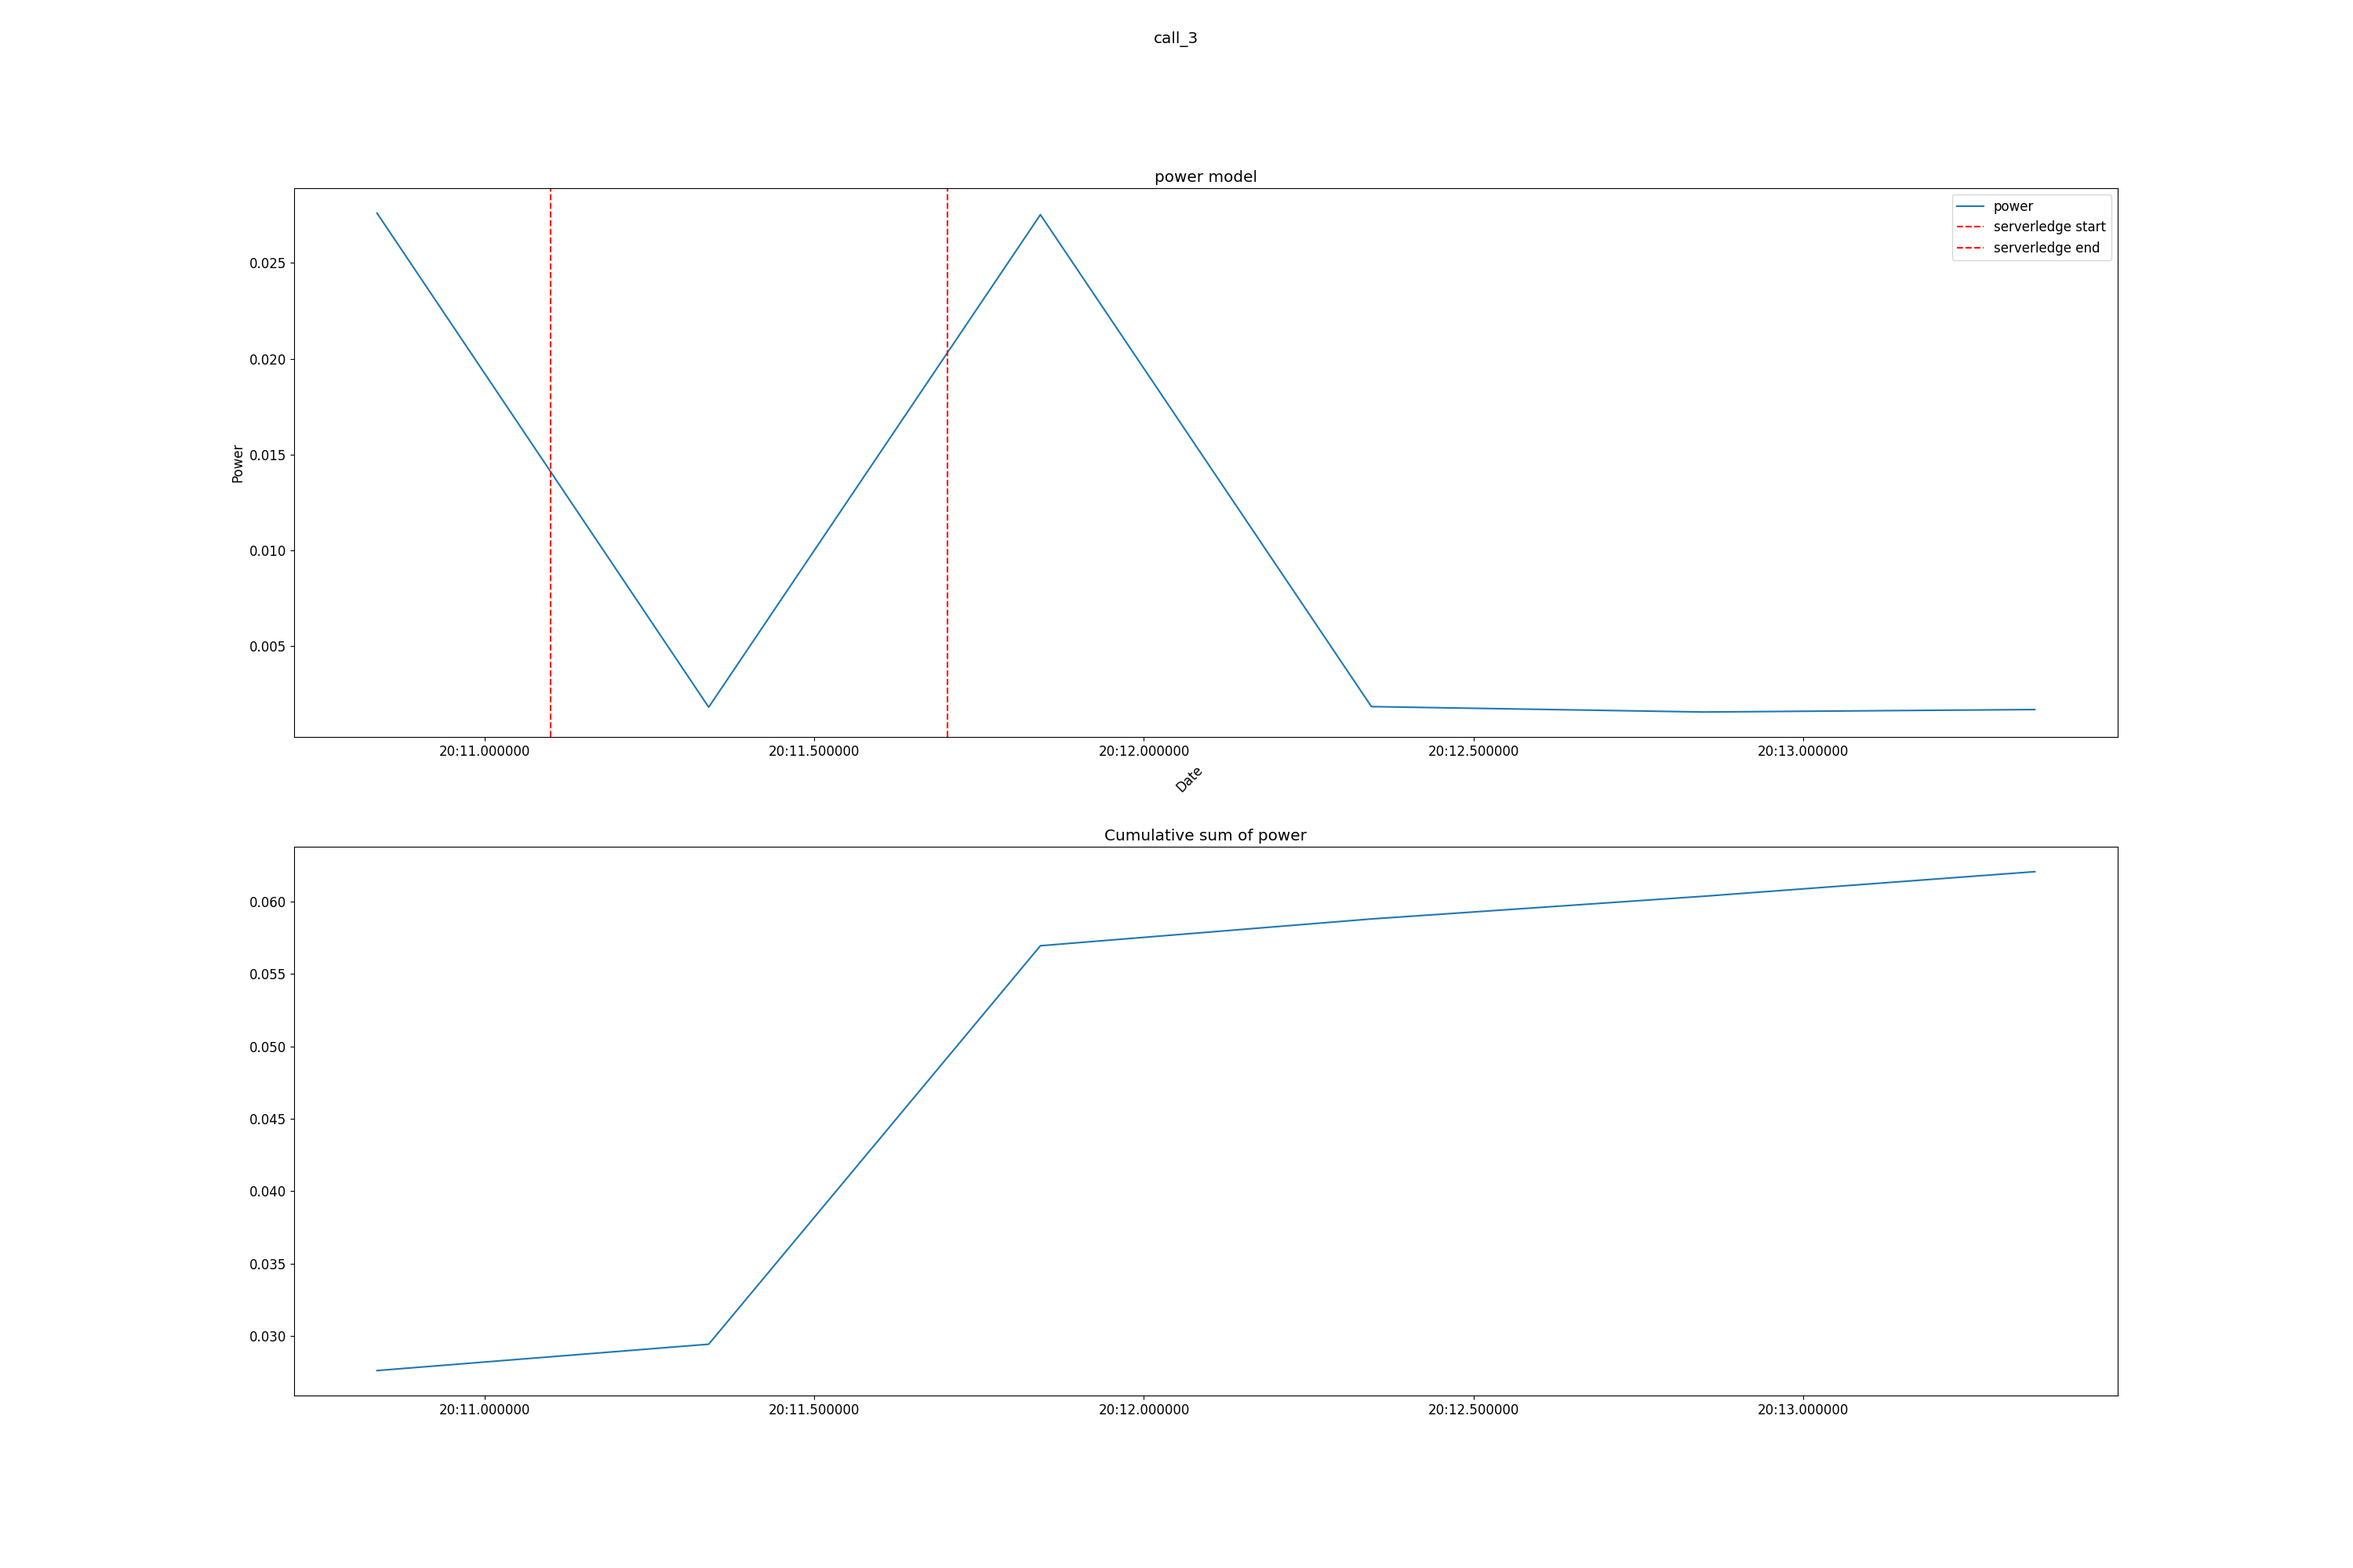
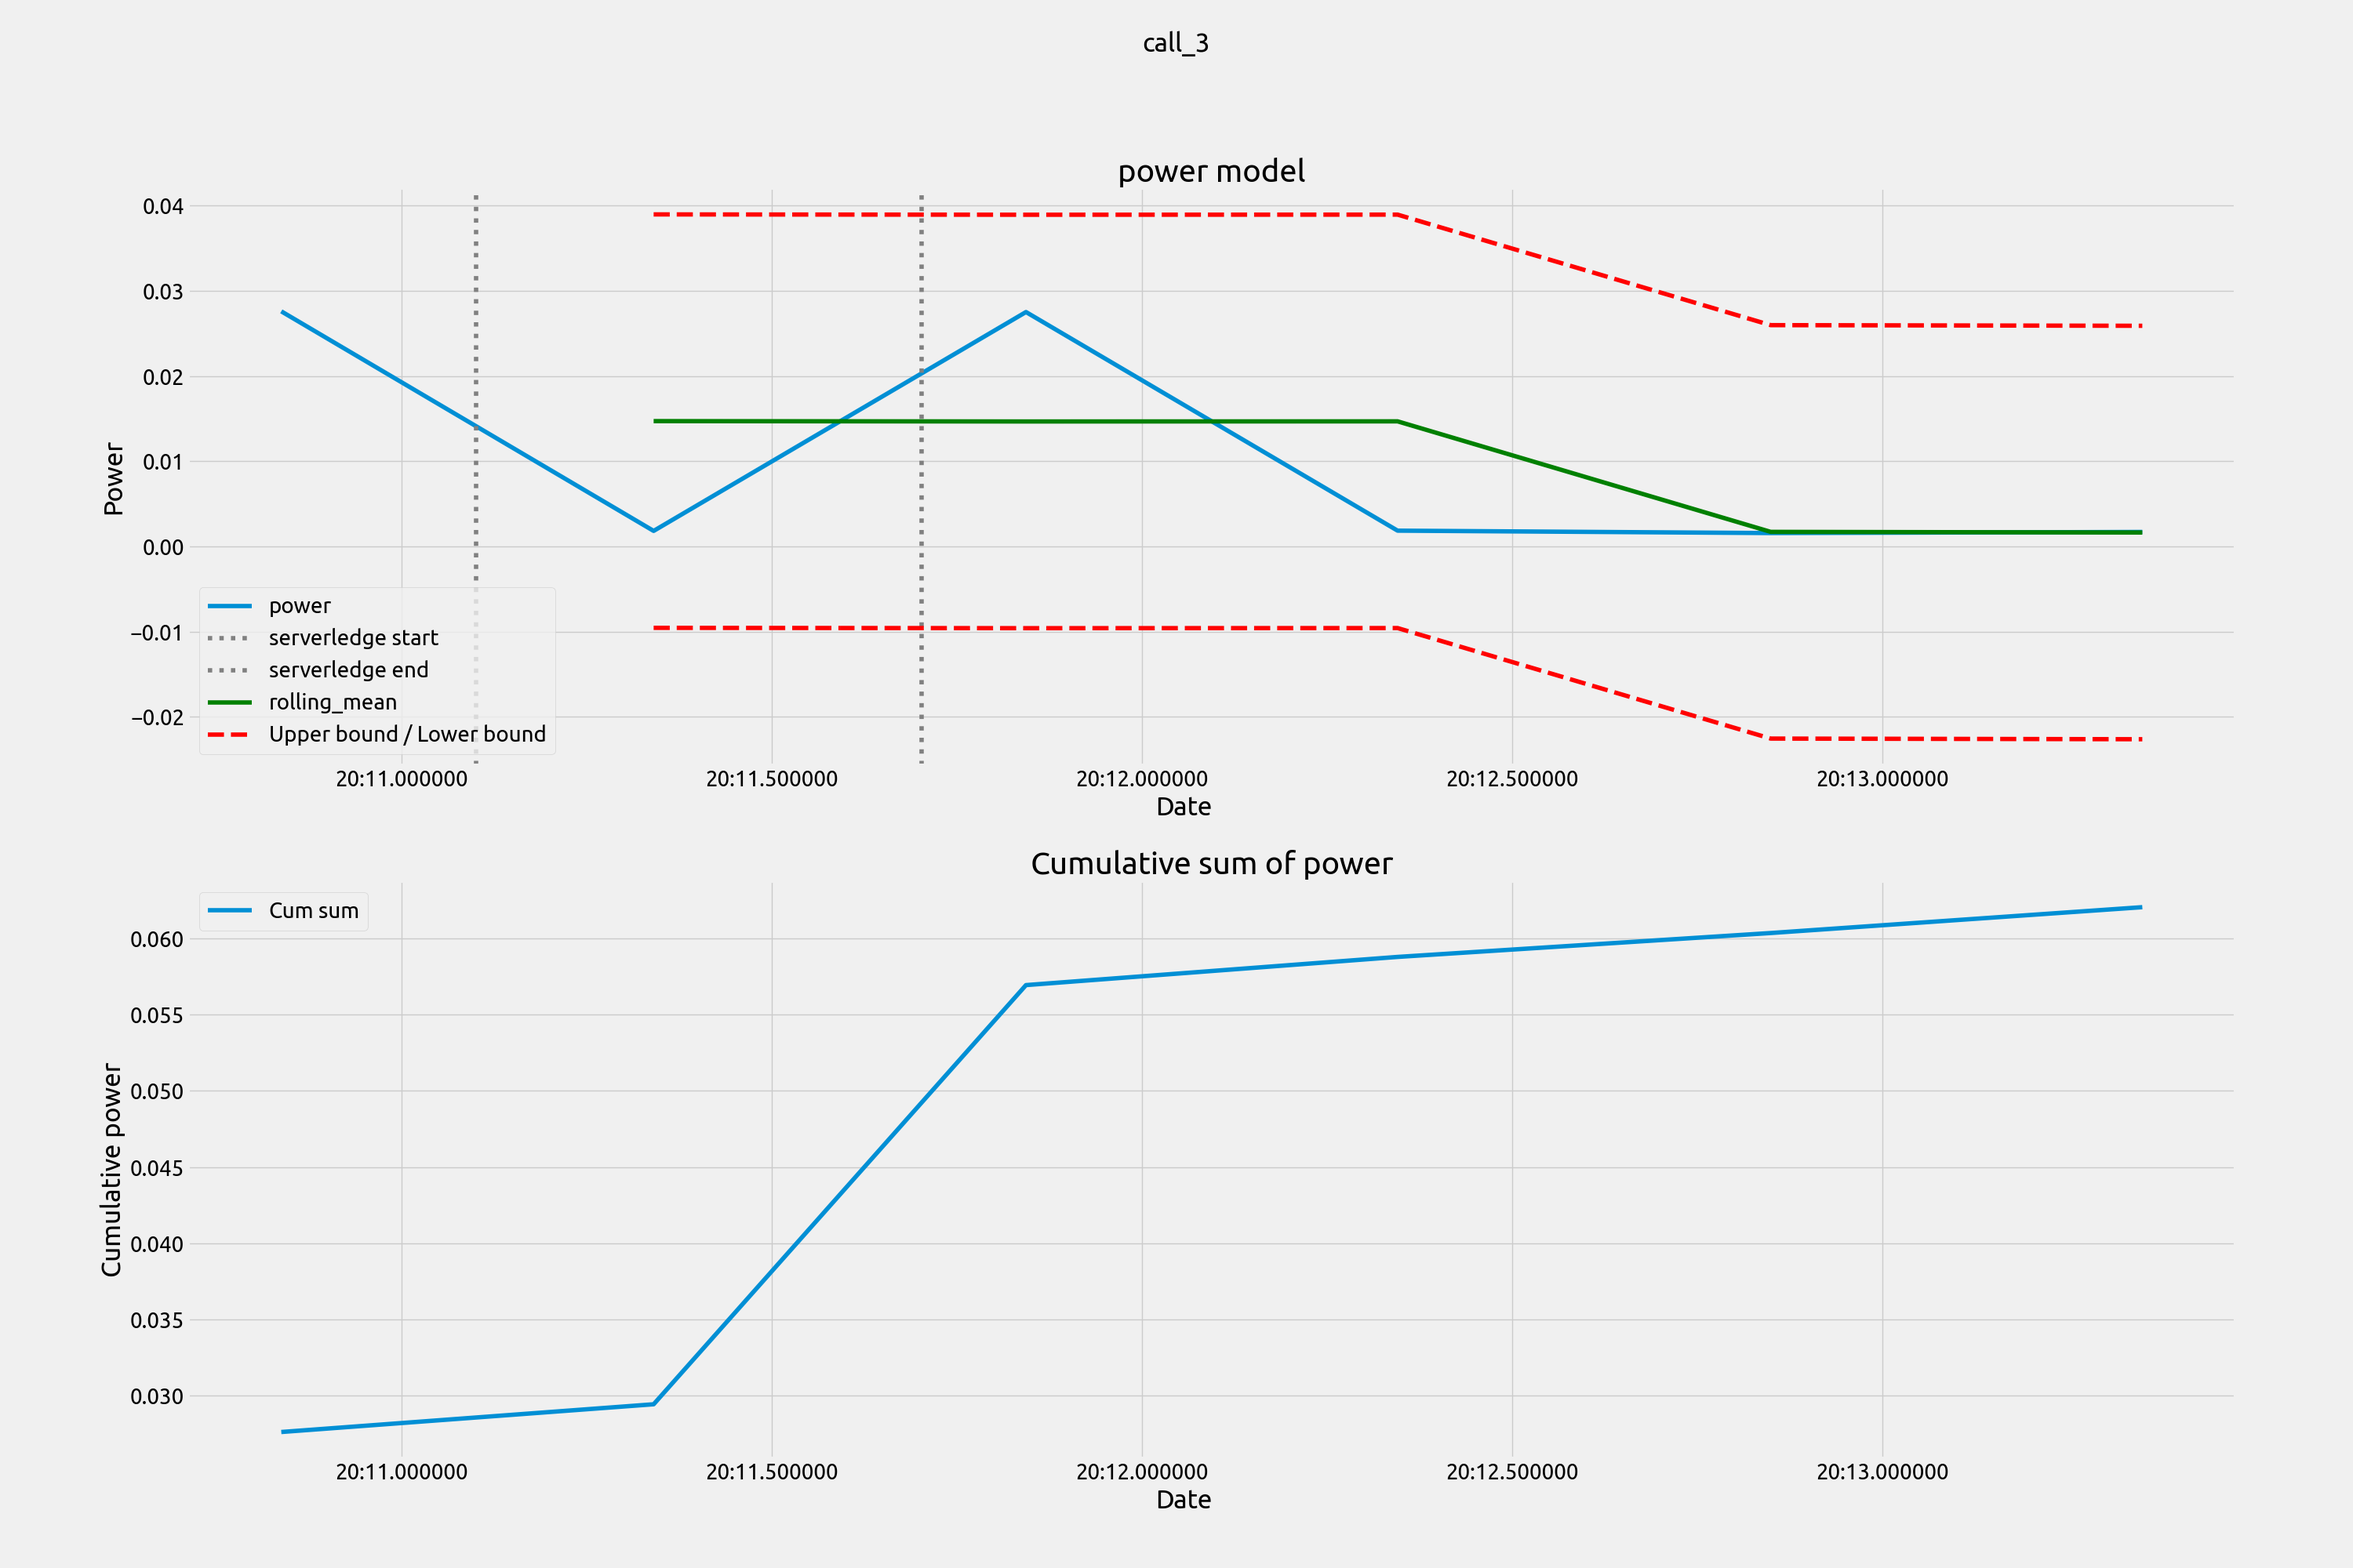
add studies

diff --git a/internals/try.py b/internals/try.py
@@ -10,10 +10,18 @@ from labellines import labelLine, labelLines
 import matplotx
 from peak_detection import *
 import pylab
-
+from sklearn.metrics import r2_score, median_absolute_error, mean_absolute_error
+from sklearn.metrics import median_absolute_error, mean_squared_error, mean_squared_log_error
+import ruptures as rpt
+plt.style.use('fivethirtyeight')
 plt.rcParams["figure.figsize"] = (30,20)
-plt.rcParams['font.size'] =  12
-
+plt.rcParams['font.size'] =  20
+plt.rcParams['font.family'] = 'serif'
+plt.rcParams['font.serif'] = 'Ubuntu'
+plt.rcParams['font.monospace'] = 'Ubuntu Mono'
+plt.rcParams['figure.titlesize'] = 24
+import warnings
+warnings.filterwarnings('ignore')
 def main() : 
     df = pd.read_csv('case_study/results.csv', parse_dates=['time'])
     df['time'] = pd.to_datetime(df.time).dt.tz_localize(None)
@@ -29,25 +37,48 @@ def main() :
         plot_a_call(df,calls[i][0],calls[i][1],"call_"+str(i))
     plot_all(df)
 
+def mean_absolute_percentage_error(y_true, y_pred):
+    return np.mean(np.abs((y_true - y_pred) / y_true)) * 100
 
 def plotTimeSeries(dataframe,title,start,end):
-    
     plt.cla()
     plt.clf()
     fig, axs = plt.subplots(2)
     fig.suptitle(title)
     axs[0].plot(dataframe.time, dataframe.power, label='power')
-    axs[0].axvline(start,color="red", linestyle="--",label="serverledge start")
-    axs[0].axvline(end,color="red", linestyle="--",label="serverledge end")
+    axs[0].axvline(start,color="gray", linestyle=":",label="serverledge start")
+    axs[0].axvline(end,color="gray", linestyle=":",label="serverledge end") 
+    axs[0].plot(dataframe.time,dataframe['power'].rolling(2).mean(),label='rolling_mean',color='green')
     axs[0].set_title("power model")
-    axs[0].set_xlabel(xlabel='Date', rotation=45, ha='right')
+    axs[0].set_xlabel(xlabel='Date', ha='right')
     axs[0].set_ylabel('Power')
     axs[1].plot(dataframe.time, dataframe['power'].cumsum(skipna=False),  label='Cum sum')
     axs[1].set_title("Cumulative sum of power")
+    axs[1].set_xlabel(xlabel='Date', ha='right')
+    axs[1].set_ylabel('Cumulative power')
+    scale=1.96
+    rolling_mean = dataframe['power'].rolling(window=2).mean()
+    mae = mean_absolute_error(dataframe['power'][2:], rolling_mean[2:])
+    deviation = np.std(dataframe['power'][1:] - rolling_mean[2:])
+    lower_bound = rolling_mean - (mae + scale * deviation)
+    upper_bound = rolling_mean + (mae + scale * deviation)
+    axs[0].plot(dataframe.time,upper_bound, 'r--', label='Upper bound / Lower bound')
+    axs[0].plot(dataframe.time,lower_bound, 'r--')
     axs[0].legend()
-    
+    axs[1].legend()
     plt.savefig("internals/"+title+".png")
-  
+    '''
+
+     #Convert the time series values to a numpy 1D array
+    points=np.array(dataframe['power'])
+    print(points)
+    #Changepoint detection with dynamic programming search method
+    algo = rpt.Pelt(model="rbf").fit(points)
+    my_bkps = algo.predict(pen=1)
+    rpt.show.display(points, my_bkps,figsize=(10,10))
+    plt.title('Change Point Detection: Pelt Search Search Method :'+ title)
+    plt.savefig("internals/cp_"+title+".png")
+   '''
     
 def plot_a_call(df,event_start,event_duration,title) : 
     print("\nplot ", title)
@@ -67,13 +98,35 @@ def plot_all(dataframe) :
     fig.suptitle("all")
     axs[0].plot(dataframe.time, dataframe.power, label='power')
     axs[0].set_title("power model")
-    axs[0].set_xlabel(xlabel='Date', rotation=45, ha='right')
+    axs[0].set_xlabel(xlabel='Date', ha='right')
     axs[0].set_ylabel('Power')
     axs[1].plot(dataframe.time, dataframe['power'].cumsum(skipna=False),  label='Cum sum')
     axs[1].set_title("Cumulative sum of power")
+    axs[0].plot(dataframe.time,dataframe['power'].rolling(2).mean(),label='rolling_mean',color='green')
     axs[0].legend()
+    axs[1].legend()
+    axs[1].set_xlabel(xlabel='Date', ha='right')
+    axs[1].set_ylabel('Cumulative power')
     plt.savefig("internals/all.png")
+    plt.cla()
+    plt.clf()
+    '''
+    #Convert the time series values to a numpy 1D array
+    points=np.array(dataframe['power'])
+    #Changepoint detection with dynamic programming search method
+    model = "l2"  
+    algo = rpt.Window(width=40, model=model).fit(points)
+    my_bkps = algo.predict(n_bkps=15)
+    rpt.show.display(points, my_bkps, figsize=(10, 6))
+    plt.savefig("internals/cp_all.png")
+    for i in my_bkps:
+        print(dataframe.iloc[i-1])
+    '''
 
+    
+
+
+  
 
     
 
